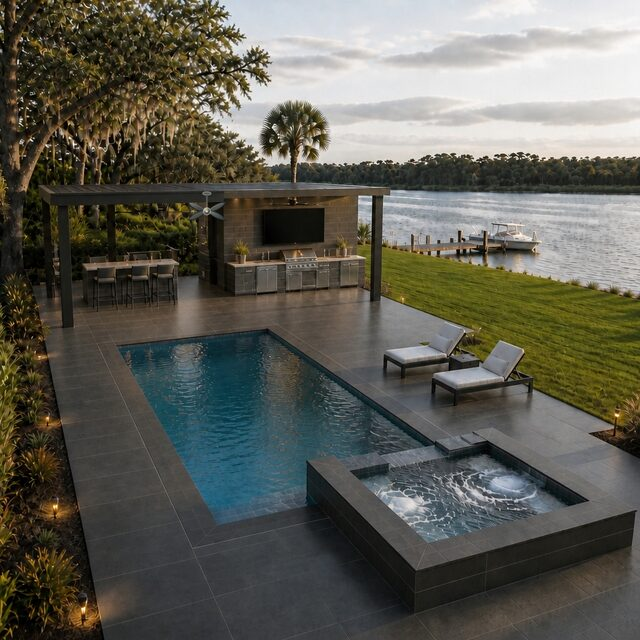
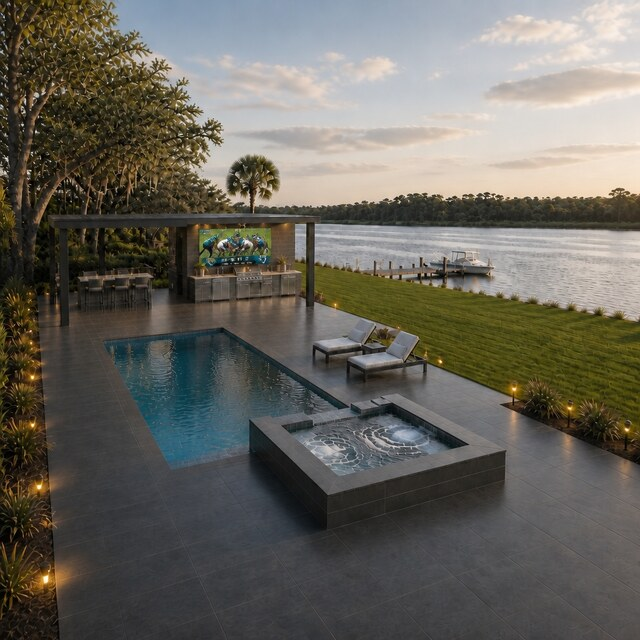
Update layout components and add project media assets
Replit-Commit-Author: Agent

diff --git a/artifacts/cove-and-stone/src/components/layout/appointment-cta.css b/artifacts/cove-and-stone/src/components/layout/appointment-cta.css
@@ -41,8 +41,8 @@
   pointer-events: none;
   position: absolute;
   clip-path: polygon(
-    0 64%, 7% 59%, 14% 57%, 22% 61%, 30% 68%, 38% 72%, 46% 70%, 54% 64%, 62% 56%,
-    70% 51%, 78% 50%, 86% 54%, 93% 59%, 100% 55%,
+    0 81%, 7% 76%, 14% 74%, 22% 78%, 30% 85%, 38% 89%, 46% 87%, 54% 81%, 62% 73%,
+    70% 68%, 78% 67%, 86% 71%, 93% 76%, 100% 72%,
     100% 100%, 0 100%
   );
   animation: cove-water-current 6.4s ease-in-out infinite;
@@ -60,7 +60,7 @@
     );
   background-size: 190% 150%;
   clip-path: polygon(
-    0 66%, 12% 58%, 24% 64%, 37% 52%, 50% 60%, 63% 48%, 76% 58%, 88% 50%, 100% 56%,
+    0 83%, 12% 75%, 24% 81%, 37% 69%, 50% 77%, 63% 65%, 76% 75%, 88% 67%, 100% 74%,
     100% 100%, 0 100%
   );
   content: '';
@@ -154,24 +154,24 @@
 @keyframes cove-water-current {
   0% {
     clip-path: polygon(
-      0 64%, 7% 59%, 14% 57%, 22% 61%, 30% 68%, 38% 72%, 46% 70%, 54% 64%, 62% 56%,
-      70% 51%, 78% 50%, 86% 54%, 93% 59%, 100% 55%,
+      0 81%, 7% 76%, 14% 74%, 22% 78%, 30% 85%, 38% 89%, 46% 87%, 54% 81%, 62% 73%,
+      70% 68%, 78% 67%, 86% 71%, 93% 76%, 100% 72%,
       100% 100%, 0 100%
     );
     transform: translateX(-1.5%) scaleX(1.05);
   }
   50% {
     clip-path: polygon(
-      0 60%, 8% 64%, 16% 63%, 24% 67%, 32% 71%, 40% 68%, 48% 61%, 56% 54%, 64% 49%,
-      72% 48%, 80% 52%, 88% 58%, 96% 57%, 100% 52%,
+      0 77%, 8% 81%, 16% 80%, 24% 84%, 32% 88%, 40% 85%, 48% 78%, 56% 71%, 64% 66%,
+      72% 65%, 80% 69%, 88% 75%, 96% 74%, 100% 69%,
       100% 100%, 0 100%
     );
     transform: translateX(1.5%) scaleX(1.1);
   }
   100% {
     clip-path: polygon(
-      0 66%, 7% 61%, 15% 59%, 23% 63%, 31% 68%, 39% 70%, 47% 67%, 55% 61%, 63% 54%,
-      71% 50%, 79% 51%, 87% 55%, 94% 58%, 100% 54%,
+      0 83%, 7% 78%, 15% 76%, 23% 80%, 31% 85%, 39% 87%, 47% 84%, 55% 78%, 63% 71%,
+      71% 67%, 79% 68%, 87% 72%, 94% 75%, 100% 71%,
       100% 100%, 0 100%
     );
     transform: translateX(-0.5%) scaleX(1.06);

diff --git a/artifacts/cove-and-stone/src/pages/projects.tsx b/artifacts/cove-and-stone/src/pages/projects.tsx
@@ -120,17 +120,17 @@ export const CASE_STUDIES: CaseStudy[] = [
     type: "Riverfront pool & outdoor living",
     size: "Spacious riverfront backyard",
     materials: "Smooth dark-gray stone decking, charcoal porcelain coping, river-blue tile and native Florida planting",
-    features: "Pool, Raised Spa, Smooth Dark-Gray Stone Deck, Pergola, Ceiling Fan, Gourmet Outdoor Kitchen, Oversized TV, Small Bar, Expanded Lawn, Private Dock",
+    features: "Pool, Raised Spa, Smooth Dark-Gray Stone Deck, Pergola, Gourmet Outdoor Kitchen, Oversized TV Showing a Jacksonville Jaguars Game, Small Bar, Expanded Lawn, Private Dock",
     timeline: "To be confirmed",
     image: stJohnsRiverRetreat,
-    desc: "An illustrative St. Johns River retreat designed for entertaining, with a pool and raised spa, expansive smooth dark-gray stone decking, a pergola-covered gourmet kitchen and bar, oversized TV, ceiling fan, generous lawn and private dock.",
+    desc: "An illustrative St. Johns River retreat designed for entertaining, with a pool and raised spa, expansive smooth dark-gray stone decking, a pergola-covered gourmet kitchen and bar, an oversized TV showing a Jacksonville Jaguars game, generous lawn and private dock.",
     status: "concept",
     statusLabel: "Riverfront design",
     media: {
       render: {
         src: stJohnsRiverRetreat,
         mobileSrc: stJohnsRiverRetreatMobile,
-        alt: "Illustrative St. Johns River pool and raised spa with an expanded dark-gray stone deck, pergola-covered gourmet kitchen and bar, large TV, ceiling fan, open lawn and private dock",
+        alt: "Illustrative St. Johns River pool and raised spa with an expanded dark-gray stone deck, pergola-covered gourmet kitchen and bar, large TV showing a Jacksonville Jaguars game, open lawn and private dock",
         label: "Design visualization",
       },
     },

diff --git a/artifacts/cove-and-stone/src/components/layout/layout.tsx b/artifacts/cove-and-stone/src/components/layout/layout.tsx
@@ -111,19 +111,21 @@ export default function Layout({ children }: { children: ReactNode }) {
         </div>
       </header>
 
-      <div className={`fixed bottom-6 z-50 hidden drop-shadow-[0_8px_18px_rgba(0,0,0,0.25)] lg:flex ${appointmentCtaPosition}`}>
-        <Link
-          href="/appointments/"
-          className="layout-appointment-cta min-h-[4.35rem] w-[22rem] gap-3 px-3 py-2"
-          data-testid="link-desktop-appointment-cta"
-        >
-          <span className="layout-appointment-cta__copy">
-            <span className="layout-appointment-cta__eyebrow">Design consultation</span>
-            <span className="layout-appointment-cta__title">Start your project today</span>
-          </span>
-          <ArrowUpRight className="layout-appointment-cta__arrow" size={19} strokeWidth={1.8} aria-hidden="true" />
-        </Link>
-      </div>
+      {!location.startsWith("/projects/") && (
+        <div className={`fixed bottom-6 z-50 hidden drop-shadow-[0_8px_18px_rgba(0,0,0,0.25)] lg:flex ${appointmentCtaPosition}`}>
+          <Link
+            href="/appointments/"
+            className="layout-appointment-cta min-h-[4.35rem] w-[22rem] gap-3 px-3 py-2"
+            data-testid="link-desktop-appointment-cta"
+          >
+            <span className="layout-appointment-cta__copy">
+              <span className="layout-appointment-cta__eyebrow">Design consultation</span>
+              <span className="layout-appointment-cta__title">Start your project today</span>
+            </span>
+            <ArrowUpRight className="layout-appointment-cta__arrow" size={19} strokeWidth={1.8} aria-hidden="true" />
+          </Link>
+        </div>
+      )}
 
       {/* Mobile Menu Overlay */}
       <div 

diff --git a/artifacts/cove-and-stone/src/pages/project-detail.tsx b/artifacts/cove-and-stone/src/pages/project-detail.tsx
@@ -1,6 +1,6 @@
 import { useParams, Link } from 'wouter';
 import { CASE_STUDIES } from './projects';
-import { ArrowLeft, CheckCircle2, Image as ImageIcon, Moon, Sun, Video } from 'lucide-react';
+import { ArrowLeft, ArrowUpRight, CheckCircle2, Image as ImageIcon, Moon, Sun, Video } from 'lucide-react';
 import { BeforeAfter } from '@/components/ui/before-after';
 import NotFound from '@/pages/not-found';
 
@@ -44,6 +44,17 @@ export default function ProjectDetail() {
             <p className="text-xl text-muted-foreground leading-relaxed mb-8 font-light">
               {project.desc}
             </p>
+            <Link
+              href="/appointments/"
+              className="layout-appointment-cta mb-8 min-h-[4.35rem] w-[22rem] max-w-full gap-3 px-3 py-2"
+              data-testid="link-project-detail-appointment-cta"
+            >
+              <span className="layout-appointment-cta__copy">
+                <span className="layout-appointment-cta__eyebrow">Design consultation</span>
+                <span className="layout-appointment-cta__title">Start your project today</span>
+              </span>
+              <ArrowUpRight className="layout-appointment-cta__arrow" size={19} strokeWidth={1.8} aria-hidden="true" />
+            </Link>
             <div className="inline-block bg-secondary/10 text-secondary px-4 py-2 text-xs font-bold uppercase tracking-widest">
               {isCompletedProject
                 ? "Completed project · approved photography"
